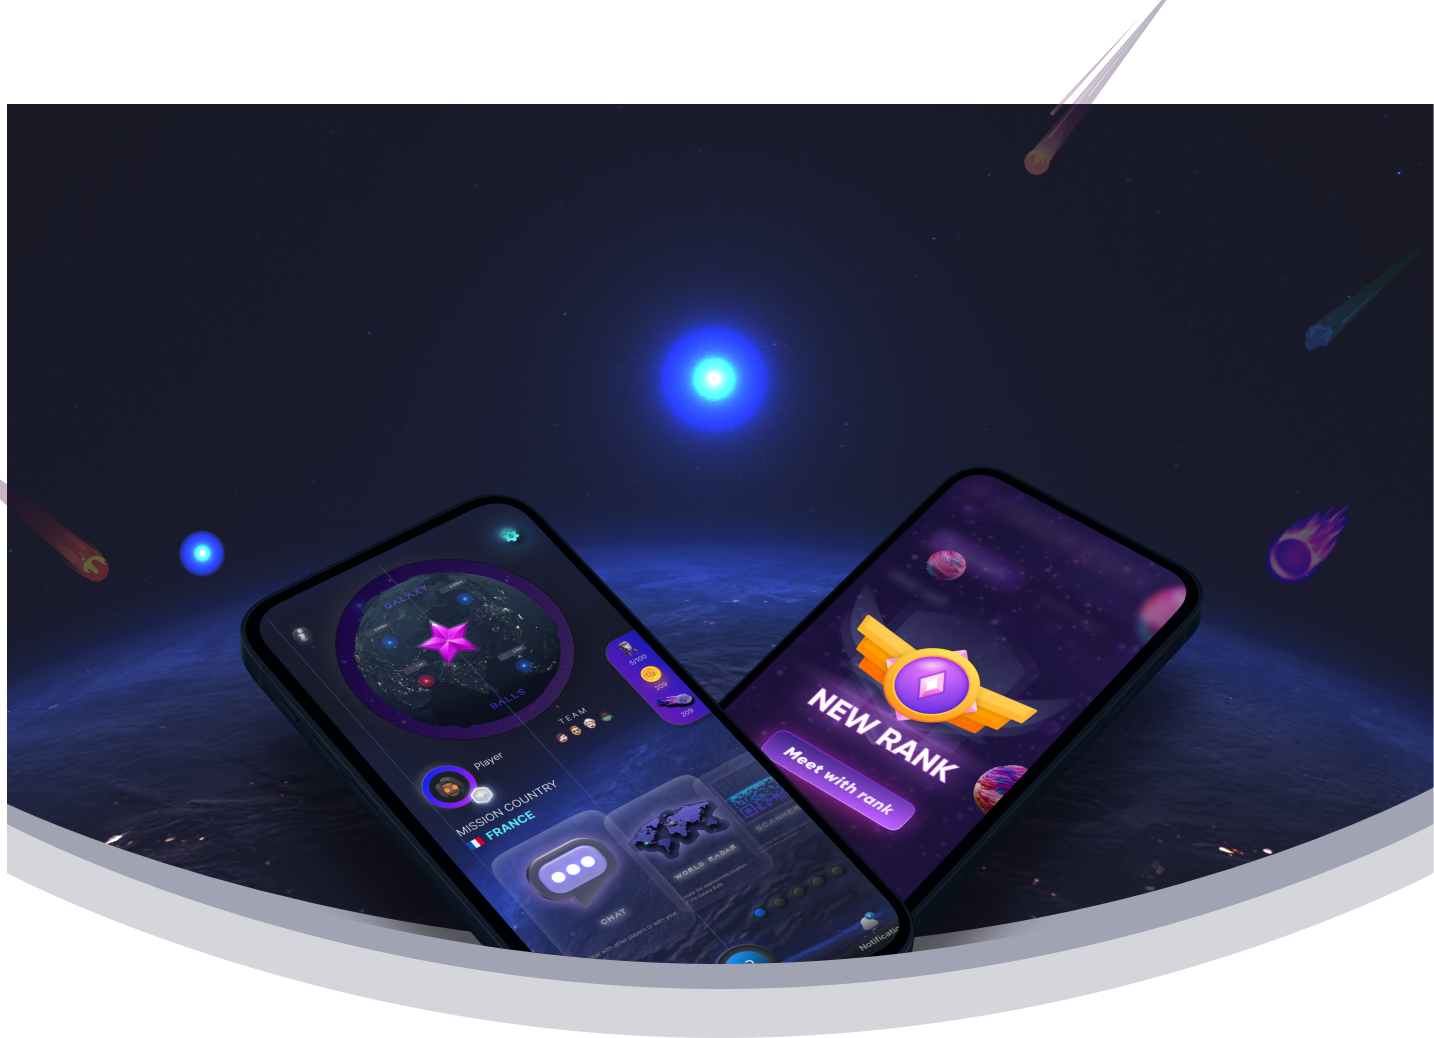
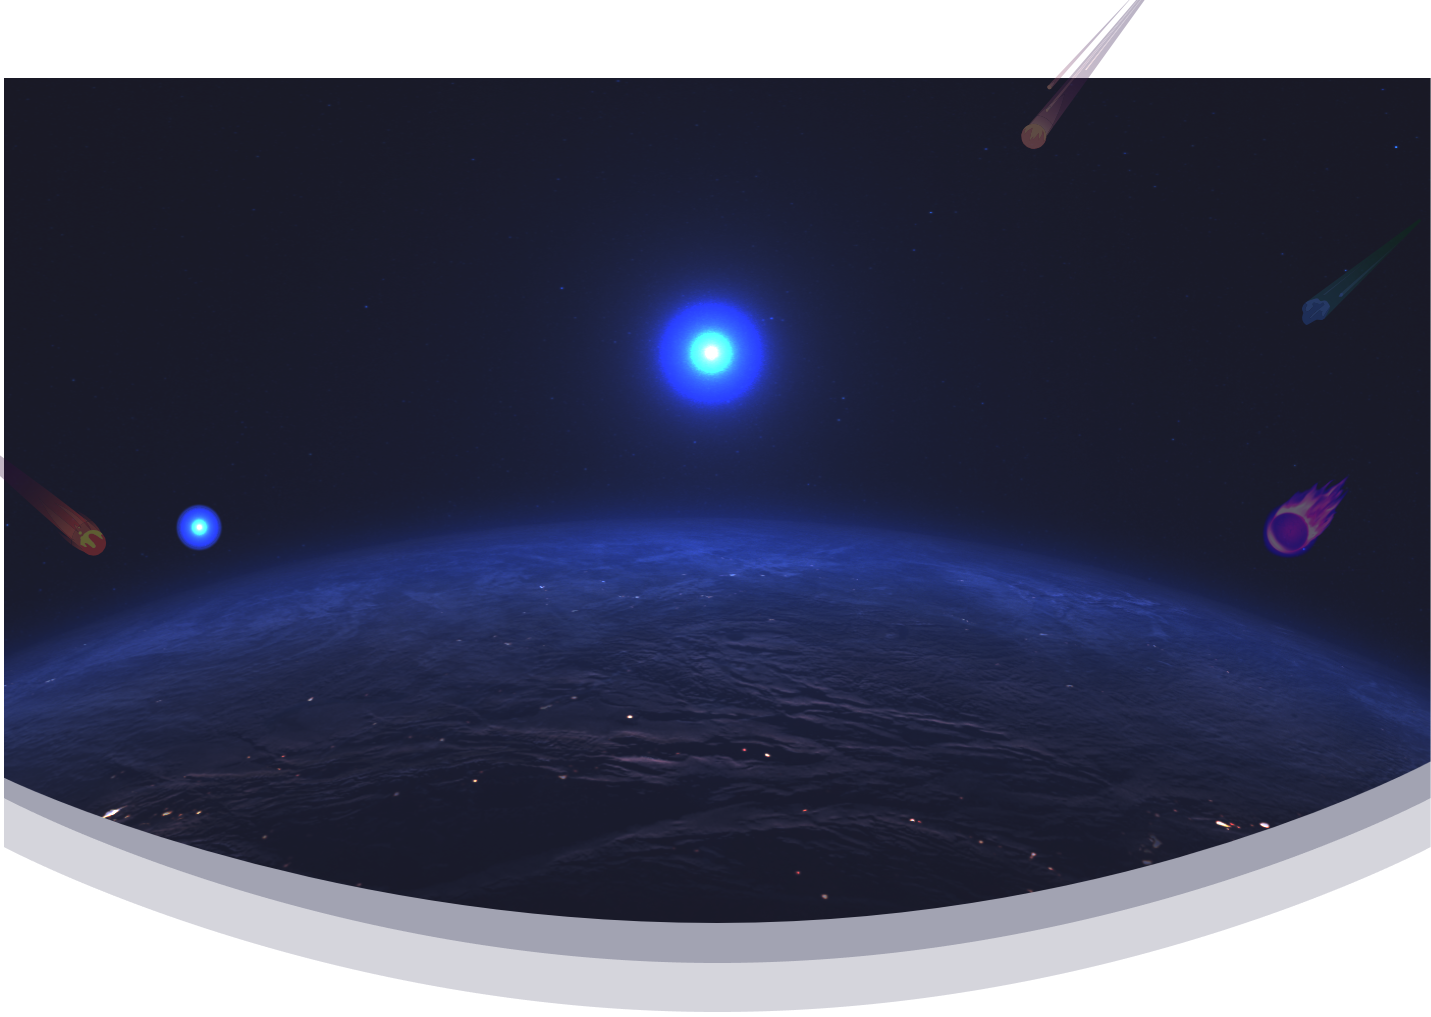
fix: update all feedback

diff --git a/common/transporter/main-section/styled.ts b/common/transporter/main-section/styled.ts
@@ -15,11 +15,16 @@ export const Title = styled.h1`
   font-size: 72px;
   line-height: 71px;
   text-align: center;
-  background: linear-gradient(180deg, #3c5462 0%, #a7a7a7 100%);
+  background-image: linear-gradient(180deg, #3c5462 0%, #a7a7a7 100%);
+  background-size: 100%;
+  background-repeat: repeat;
   -webkit-background-clip: text;
   -webkit-text-fill-color: transparent;
+  -moz-background-clip: text;
+  -moz-text-fill-color: transparent;
   background-clip: text;
-  text-shadow: 0px 2px 12px #0063f8;
+  filter: drop-shadow(0px 2px 8px rgb(0 99 248 / 80%));
+  -webkit-text-stroke: 1px #ffffff;
 
   @media screen and (max-width: 768px) {
     font-size: 36px;

diff --git a/common/home/intro-section/styled.ts b/common/home/intro-section/styled.ts
@@ -7,7 +7,7 @@ export const BgImg = styled.div`
   top: 0;
   width: 100%;
   height: 1038px;
-  background: url(/assets/images/home/intro-bg1.png) no-repeat;
+  background: url(/assets/images/home/intro-bg.png) no-repeat;
   background-size: 100% 100%;
 
   @media screen and (max-width: 1200px) {

diff --git a/common/home/intro-section/index.tsx b/common/home/intro-section/index.tsx
@@ -7,7 +7,7 @@ const IntroSection: React.FC = () => {
   const { locale } = useRouter()
 
   return (
-    <Wrapper id="start">
+    <Wrapper>
       <BgImg />
       <IntroSectionContainer>
         <IozvImg src={`/assets/images/home/iozv-${locale}.png`} />

diff --git a/common/home/game-section/index.tsx b/common/home/game-section/index.tsx
@@ -9,7 +9,7 @@ const GameSection: React.FC = () => {
   const { locale } = useRouter()
 
   return (
-    <Wrapper>
+    <Wrapper id="start">
       <Title>{trans(locale, 'home', 'for-players')}</Title>
       <GameSectionContainer>
         <Card>
